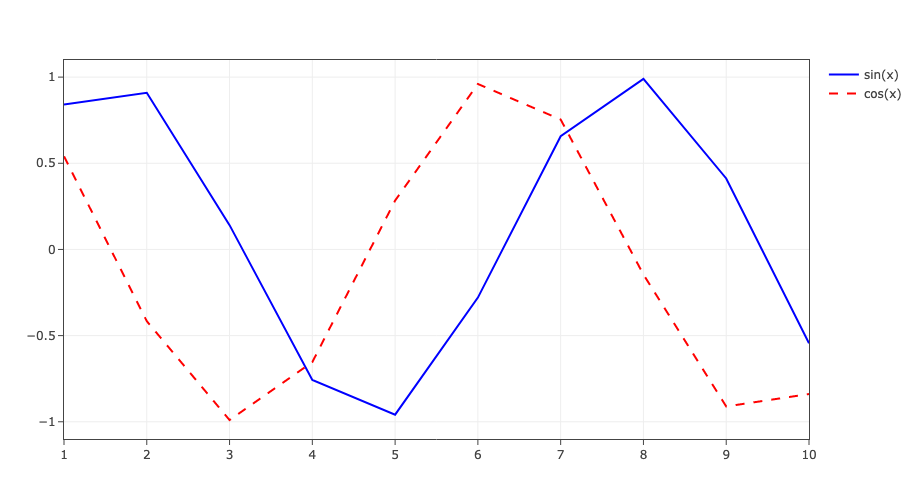
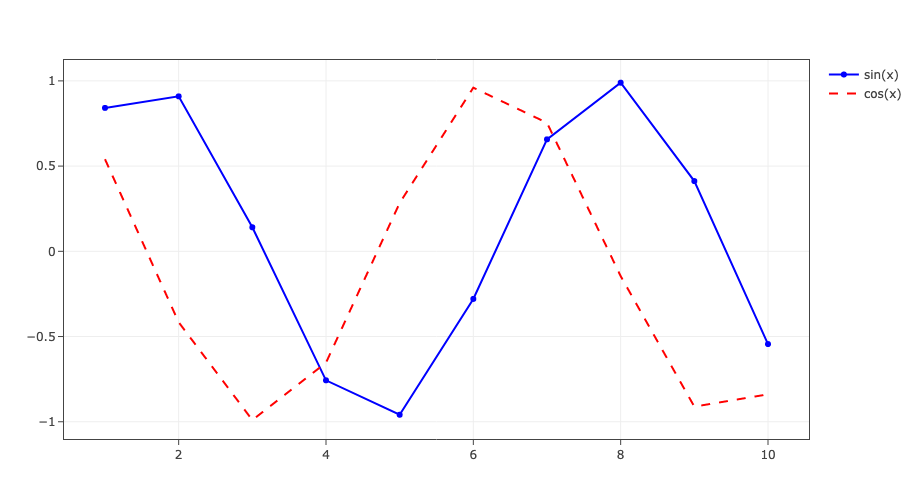
update figs for plotlysupply

diff --git a/assets/img/PlotlySupply/fig_scatter2.html b/assets/img/PlotlySupply/fig_scatter2.html
@@ -9,7 +9,7 @@ window.PlotlyConfig = {MathJaxConfig: 'local'};
 <script src="https://cdn.plot.ly/plotly-2.33.0.min.js"></script>
 
     <div
-        id=1da0c39b-cdd2-4c31-a1b8-665ed6f134da
+        id=eba3e246-662e-4e99-8f7c-fe23205d5062
         class="plotly-graph-div"
         style="height:100%; width:100%;">
     </div>
@@ -17,10 +17,10 @@ window.PlotlyConfig = {MathJaxConfig: 'local'};
         
         window.PLOTLYENV = window.PLOTLYENV || {}
         
-        if (document.getElementById('1da0c39b-cdd2-4c31-a1b8-665ed6f134da')) {
+        if (document.getElementById('eba3e246-662e-4e99-8f7c-fe23205d5062')) {
     Plotly.newPlot(
-        '1da0c39b-cdd2-4c31-a1b8-665ed6f134da',
-        [{"mode":"lines","line":{"color":"blue","dash":""},"y":[0.8414709848078965,0.9092974268256817,0.1411200080598672,-0.7568024953079282,-0.9589242746631385,-0.27941549819892586,0.6569865987187891,0.9893582466233818,0.4121184852417566,-0.5440211108893698],"type":"scatter","name":"sin(x)","x":[1,2,3,4,5,6,7,8,9,10]},{"mode":"lines","line":{"color":"red","dash":"dash"},"y":[0.5403023058681398,-0.4161468365471424,-0.9899924966004454,-0.6536436208636119,0.28366218546322625,0.960170286650366,0.7539022543433046,-0.14550003380861354,-0.9111302618846769,-0.8390715290764524],"type":"scatter","name":"cos(x)","x":[1,2,3,4,5,6,7,8,9,10]}],
+        'eba3e246-662e-4e99-8f7c-fe23205d5062',
+        [{"mode":"lines+markers","line":{"color":"blue","dash":""},"y":[0.8414709848078965,0.9092974268256817,0.1411200080598672,-0.7568024953079282,-0.9589242746631385,-0.27941549819892586,0.6569865987187891,0.9893582466233818,0.4121184852417566,-0.5440211108893698],"type":"scatter","name":"sin(x)","x":[1,2,3,4,5,6,7,8,9,10]},{"mode":"lines","line":{"color":"red","dash":"dash"},"y":[0.5403023058681398,-0.4161468365471424,-0.9899924966004454,-0.6536436208636119,0.28366218546322625,0.960170286650366,0.7539022543433046,-0.14550003380861354,-0.9111302618846769,-0.8390715290764524],"type":"scatter","name":"cos(x)","x":[1,2,3,4,5,6,7,8,9,10]}],
         {"xaxis":{"showline":true,"zeroline":false,"ticks":"outside","title":{"text":""},"tick0":1,"mirror":true,"automargin":true},"template":"plotly_white","margin":{"l":50,"b":50,"r":50,"t":60},"title":"","yaxis":{"showline":true,"zeroline":false,"ticks":"outside","title":{"text":""},"tick0":[0.5403023058681398,-0.4161468365471424,-0.9899924966004454,-0.6536436208636119,0.28366218546322625,0.960170286650366,0.7539022543433046,-0.14550003380861354,-0.9111302618846769,-0.8390715290764524],"mirror":true,"automargin":true}},
         {"editable":false,"responsive":true,"staticPlot":false,"scrollZoom":true},
     )
